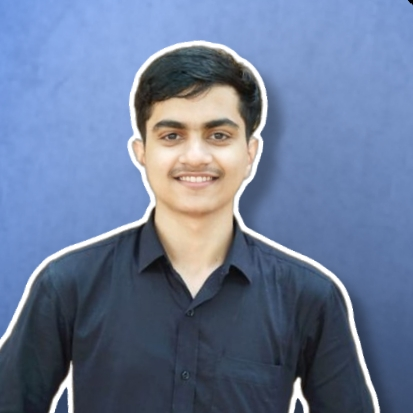
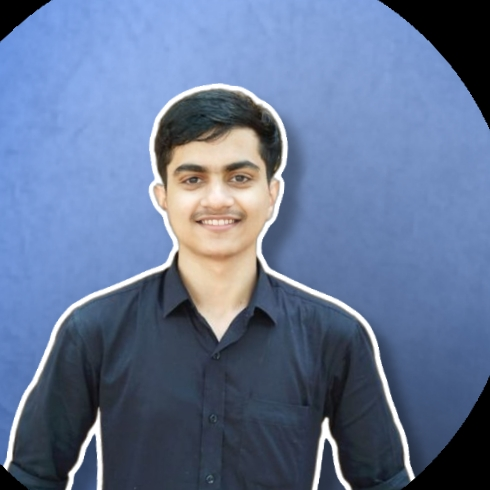
profile url done

diff --git a/main.py b/main.py
@@ -4,7 +4,9 @@ from pydantic import BaseModel
 import random
 import base64
 import mysql.connector as con
+from typing import Optional
 from removebg import RemoveBg
+import requests
 
 mydb = con.connect(
     host="localhost",
@@ -36,8 +38,25 @@ class UserData(BaseModel):
     party: str
     lokhsabha: str
     position: str
-    image: str
+    image: Optional[str] = None
     
+def upload_image_to_imgbb(image_path: str) -> str:
+    imgbb_api_key = "9ed666bcae79116dea7d068c2aaa3163"  # Replace with your ImgBB API key
+
+    with open(image_path, "rb") as image_file:
+        encoded_image = base64.b64encode(image_file.read()).decode("utf-8")
+
+    response = requests.post(
+        "https://api.imgbb.com/1/upload",
+        data={"key": imgbb_api_key, "image": encoded_image}
+    )
+
+    result = response.json()
+
+    if "data" in result and "url" in result["data"]:
+        return result["data"]["url"]
+    else:
+        raise Exception("Failed to upload image to ImgBB. Response: {}".format(result))
 
 
 @app.post("/send_otp")
@@ -66,12 +85,12 @@ async def resend_otp(request: Request, login_request: LoginRequest):
 async def verify_otp(request: Request, login_request: LoginRequest):
     cur = mydb.cursor()
     phone_number = login_request.phone_number
-    cur.execute(f"SELECT fullname,position,party,lokhsabha FROM users WHERE phonenumber = '{phone_number}'")
+    cur.execute(f"SELECT fullname,position,party,lokhsabha,profile_url FROM users WHERE phonenumber = '{phone_number}'")
     result = cur.fetchall()
     if len(result) == 0:
         return {"message": "User not found"}
     else:
-        return {"fullname":result[0][0],"position":result[0][1],"party":result[0][2],"lokhsabha":result[0][3],"message": "user found"}
+        return {"fullname":result[0][0],"position":result[0][1],"party":result[0][2],"lokhsabha":result[0][3],"profile_url":result[0][4],"message": "user found"}
 
         
 @app.post("/process_user_data")
@@ -82,10 +101,15 @@ async def process_user_data(user_data: UserData):
         with open("profiles/{}.jpg".format(user_data.phone_number), "wb") as image_file:
             image_file.write(image_bytes)
         RemoveBg("profiles/{}.jpg".format(user_data.phone_number), "profiles/{}.png".format(user_data.phone_number))
-    
-        
 
-    profile_url = r"https://i.ibb.co/k4m1cFv/3335dd2cf1b4.jpg"
+        image_path = "profiles/{}.png".format(user_data.phone_number)
+        imgbb_url = upload_image_to_imgbb(image_path)
+
+        # Update the profile_url with the ImgBB URL
+        profile_url = imgbb_url
+    
+    else:
+        profile_url = ""
 
     cur = mydb.cursor()
     print("Profile URL: ", profile_url, "Full Name :", user_data.fullname, "Phone Number: ", user_data.phone_number, "Party: ", user_data.party, "Lokhsabha: ", user_data.lokhsabha, "Position: ", user_data.position)
@@ -93,13 +117,15 @@ async def process_user_data(user_data: UserData):
     cur.execute("select * from users where phonenumber=%s",[user_data.phone_number])
     result = cur.fetchall()
     if len(result) > 0:
+        print("Successfully updated")
         cur.execute("UPDATE users SET fullname=%s, party=%s, lokhsabha=%s, position=%s, profile_url=%s WHERE phonenumber=%s", (user_data.fullname, user_data.party, user_data.lokhsabha, user_data.position, profile_url, user_data.phone_number))
     else:
+        print("Successfully inserted")
         cur.execute("INSERT INTO users (phonenumber, fullname, party, lokhsabha, position, profile_url) VALUES (%s, %s, %s, %s, %s, %s)", (user_data.phone_number, user_data.fullname, user_data.party, user_data.lokhsabha, user_data.position, profile_url))
 
 
     mydb.commit()
-    return {"fullname":user_data.fullname,"phonenumber":user_data.phone_number,"party":user_data.party,"lokhsabha":user_data.lokhsabha,"profile_url":profile_url, "message": "Data received successfully"}
+    return {"fullname":user_data.fullname,"position":user_data.position,"phonenumber":user_data.phone_number,"party":user_data.party,"lokhsabha":user_data.lokhsabha,"profile_url":profile_url, "message": "Data received successfully"}
 
 
 
